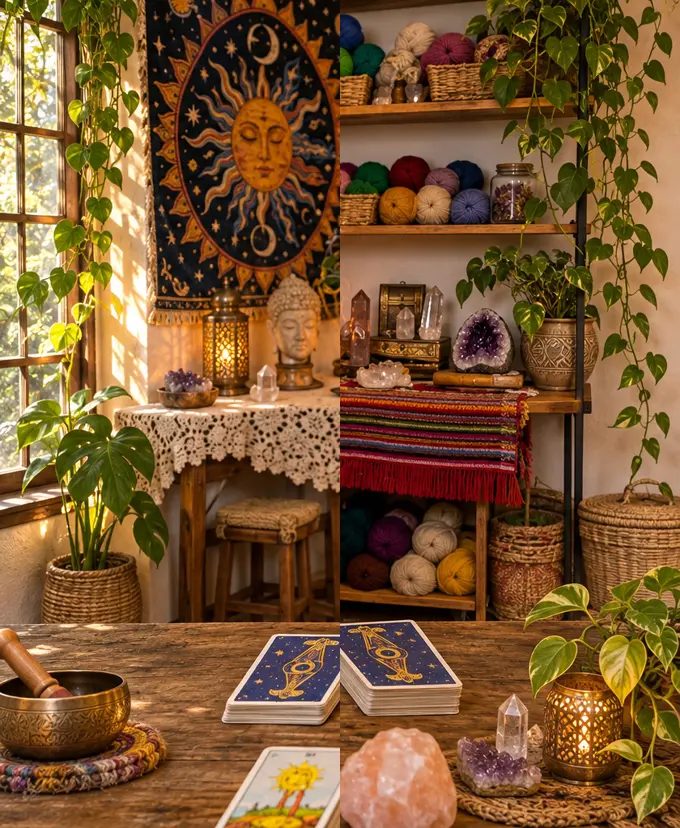
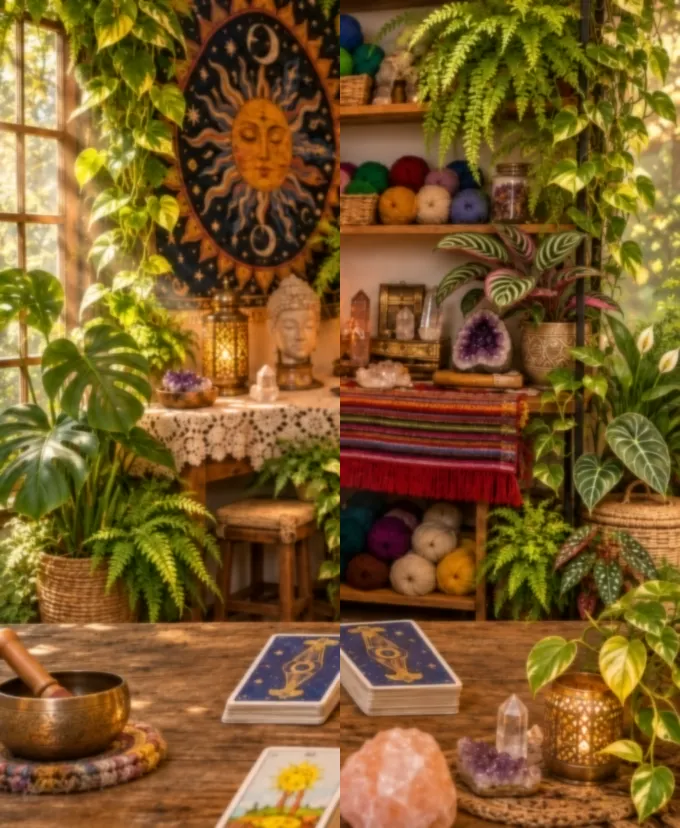
Fill the tarot room with lush foliage and soften the background

diff --git a/src/components/tarot/tarot.css b/src/components/tarot/tarot.css
@@ -417,7 +417,7 @@
     content: '';
     position: absolute;
     inset: 0;
-    background: linear-gradient(180deg, #faebcc 0%, transparent 9% 88%, #e1e6d2 100%);
+    background: linear-gradient(180deg, #faebcc 0%, #fff5db38 12%, #fff5db25 84%, #e1e6d2 100%);
   }
 }
 
